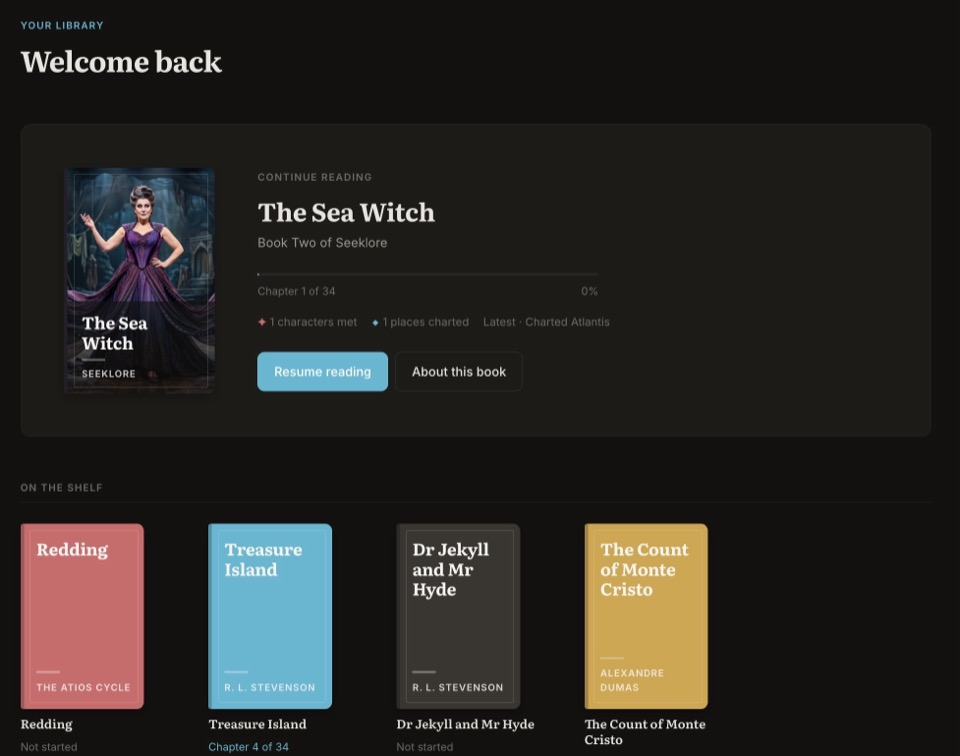
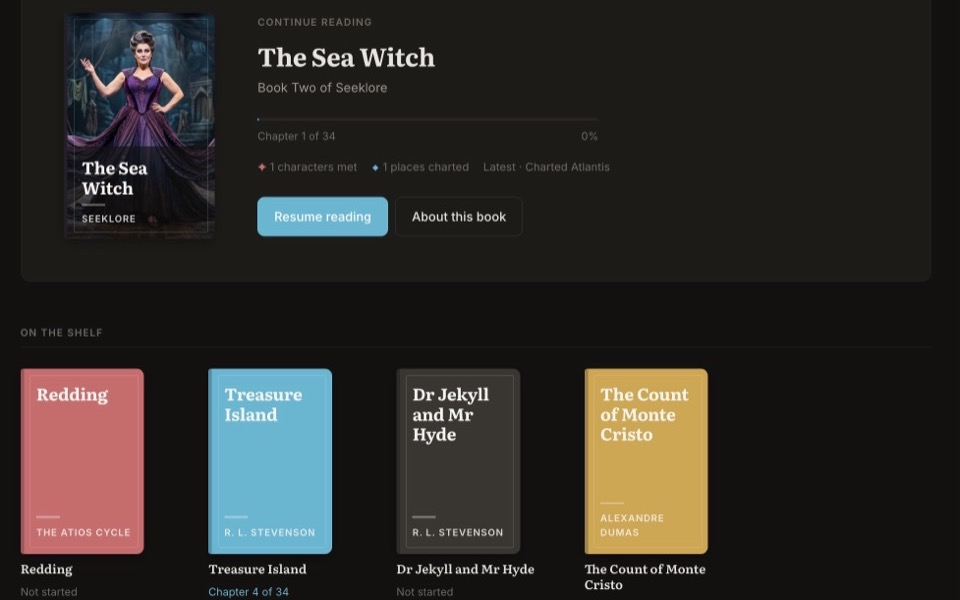
Re-crop the eReader preview to 16:10
The screenshot was 1.27:1 in a 16:10 slot, so object-fit: cover took ~21% off
the top and bottom — and the crop line fell straight through the row of book
covers, right where the card body starts. Nothing actually overflowed, but a
half-sliced cover at that boundary reads as the thumbnail bleeding into the
text.

Re-cropped to 960x600, anchored so the hero card and all four shelf covers sit
whole inside the frame. Every preview is now 16:10 or wider, so cover only ever
crops sideways. Noted in the README.

diff --git a/README.md b/README.md
@@ -21,8 +21,10 @@ projects/
   seeklore/
     index.html                 self-contained project (bundled assets)
   seeklore-ereader/
-    index.html                 self-contained project (app, design system,
-                               five books and fonts all bundled)
+    index.html                 exported app (design system + fonts bundled)
+    books/                     book data — the export does NOT contain it
+tools/
+  patch-export.py              re-applies the fixes below to a fresh export
 ```
 
 Every project is a folder under `projects/` containing its own `index.html`.
@@ -46,6 +48,11 @@ vendored files.
 The design's webfonts are self-hosted in `assets/fonts/` instead of loading
 from Google, so the page makes no external requests at all — which is true of
 every page on the site.
+
+Project previews in `assets/` should be **16:10 or wider**. The card crops with
+`object-fit: cover`, so a taller image loses its top and bottom — and a crop
+line falling through the middle of something reads as the thumbnail bleeding
+into the card text.
 
 Theme defaults to dark, per the design, with a manual toggle in the footer that
 persists to `localStorage`.
@@ -82,33 +89,57 @@ Nothing in the site depends on which you pick.
 
 `seeklore-ereader` is a standalone export of `Seeklore.dc.html` from the
 **Seeklore** design system — a different project from the `seeklore` card game
-that happens to share the name. Everything is inlined: the Design Canvas
-runtime, React, the design system, the fonts, and the full text of all five
-books. It unpacks itself into blob URLs on load and makes no network requests
-of any kind.
+that happens to share the name.
 
-Two edits were made to the exported file:
+**The export does not contain the books.** The app builds
+`fetch('books/' + id + '/book.json')` at runtime, and the bundler only inlines
+references it can resolve statically, so the book data has to sit on disk in
+`books/`. Same for `books/sea-witch/cover.jpg`, which is applied as a CSS
+`background-image`. Everything else — the runtime, React, the design system,
+the fonts — is inlined.
 
-- **Title.** The export ships as `<title>Bundled Page</title>`, and the
-  bundler replaces the whole document at boot, so setting the title on the
-  outer shell alone does not survive. A `<title>` was injected into the
-  `__bundler/template` payload as well, which is what the browser tab and any
-  bookmark end up reading.
+`tools/patch-export.py` re-applies every fix below to a fresh export and is
+idempotent, so re-running it is safe:
 
-- **Chapter alignment (bug fix).** `parseContent` started a new chapter on
-  every `## ` line and relied on their order matching `chapters[]`. That holds
-  only for a book whose headings are all numbered. The Sea Witch also carries
-  part dividers — `## Part One — The Court of Gold` — and each one pushed a
-  phantom empty chapter that shifted every chapter after it. In the export as
-  received, Sea Witch chapter 2 ("The Ledger") rendered blank and chapter 3
-  ("The Survey") showed The Ledger's prose, with the drift compounding at each
-  divider. The numbers in `## N` are already 1-based indices into `chapters[]`,
-  so the parser now keys off them and ignores unnumbered headings. Books whose
-  headings are sequentially numbered parse exactly as before.
+```bash
+python3 tools/patch-export.py projects/seeklore-ereader/index.html "Seeklore eReader"
+```
 
-  This bug is in the design project too, so a fresh export will bring it back.
-  Fixing `parseContent` in `Seeklore.dc.html` upstream would make future
-  exports correct without patching.
+- **Title.** The export ships as `<title>Bundled Page</title>`, and the bundler
+  replaces the whole document at boot, so a title set on the outer shell alone
+  does not survive. One is injected into the `__bundler/template` payload too.
+
+- **Chapter alignment.** `parseContent` started a new chapter on every `## `
+  line and relied on their order matching `chapters[]`. That holds only when
+  every heading is numbered. The Sea Witch also carries part dividers —
+  `## Part One — The Court of Gold` — and each one pushed a phantom empty
+  chapter that shifted the rest: chapter 2 ("The Ledger") rendered blank and
+  chapter 3 ("The Survey") showed The Ledger's prose. The numbers in `## N`
+  are already 1-based indices into `chapters[]`, so the parser keys off them
+  and ignores unnumbered headings.
+
+- **Blank reader on cold load.** The reading pane is gated behind `pw > 0`, and
+  `pw` only becomes non-zero once `measure()` runs. The viewport ref gets one
+  `requestAnimationFrame` attempt, and `measure()` returns early if the element
+  has no width yet. The only *retrying* measure hangs off the content ref,
+  which lives inside the `pw > 0` branch and so never mounts. One missed frame
+  left the reader permanently blank — book loaded, prose parsed, nothing drawn.
+  Two delayed retries are added to the ungated viewport ref.
+
+- **Back link.** Project pages are full-screen apps with no route home, so a
+  fixed "← Portfolio" control is appended and kept alive across the bundler's
+  document swap. It sits top-centre — the one region free of app chrome on all
+  three project pages. All three pages get this one.
+
+- **BOOKS pruning.** Any book in the manifest with no data in `books/` is
+  commented out, so it drops off the shelf instead of failing with
+  "book.json HTTP 404" when opened. Currently that hides Treasure Island and
+  The Count of Monte Cristo, whose `content.txt` files exceed the 256KB ceiling
+  on the Claude Design MCP's file read and could only be retrieved truncated.
+  Drop those two files into `books/<id>/` and re-run the script to restore them.
+
+The title and chapter-alignment bugs are in the design project, so fixing them
+in `Seeklore.dc.html` upstream would shrink this list.
 
 ## Note on the dashboard project
 
